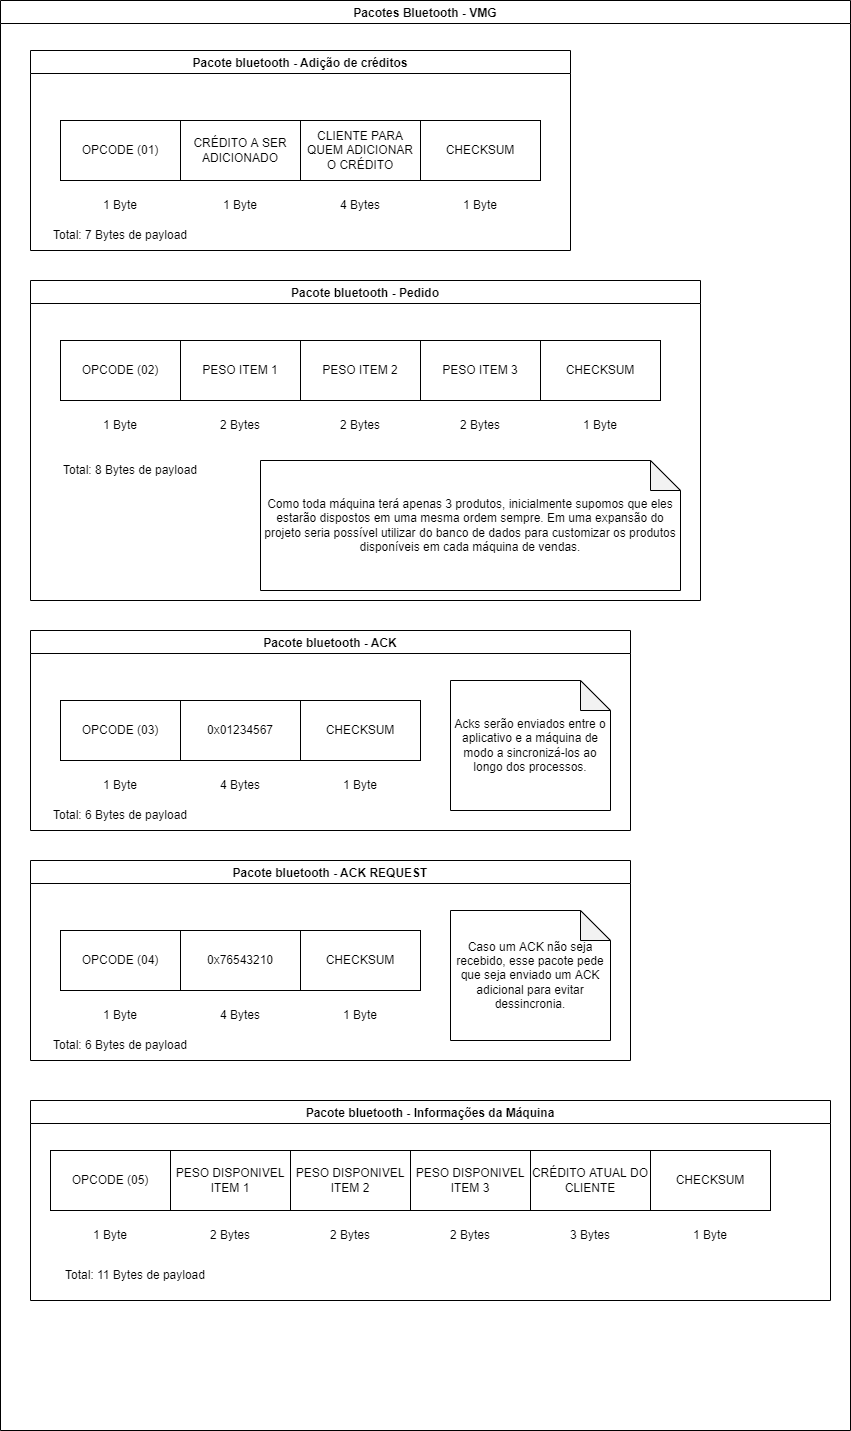
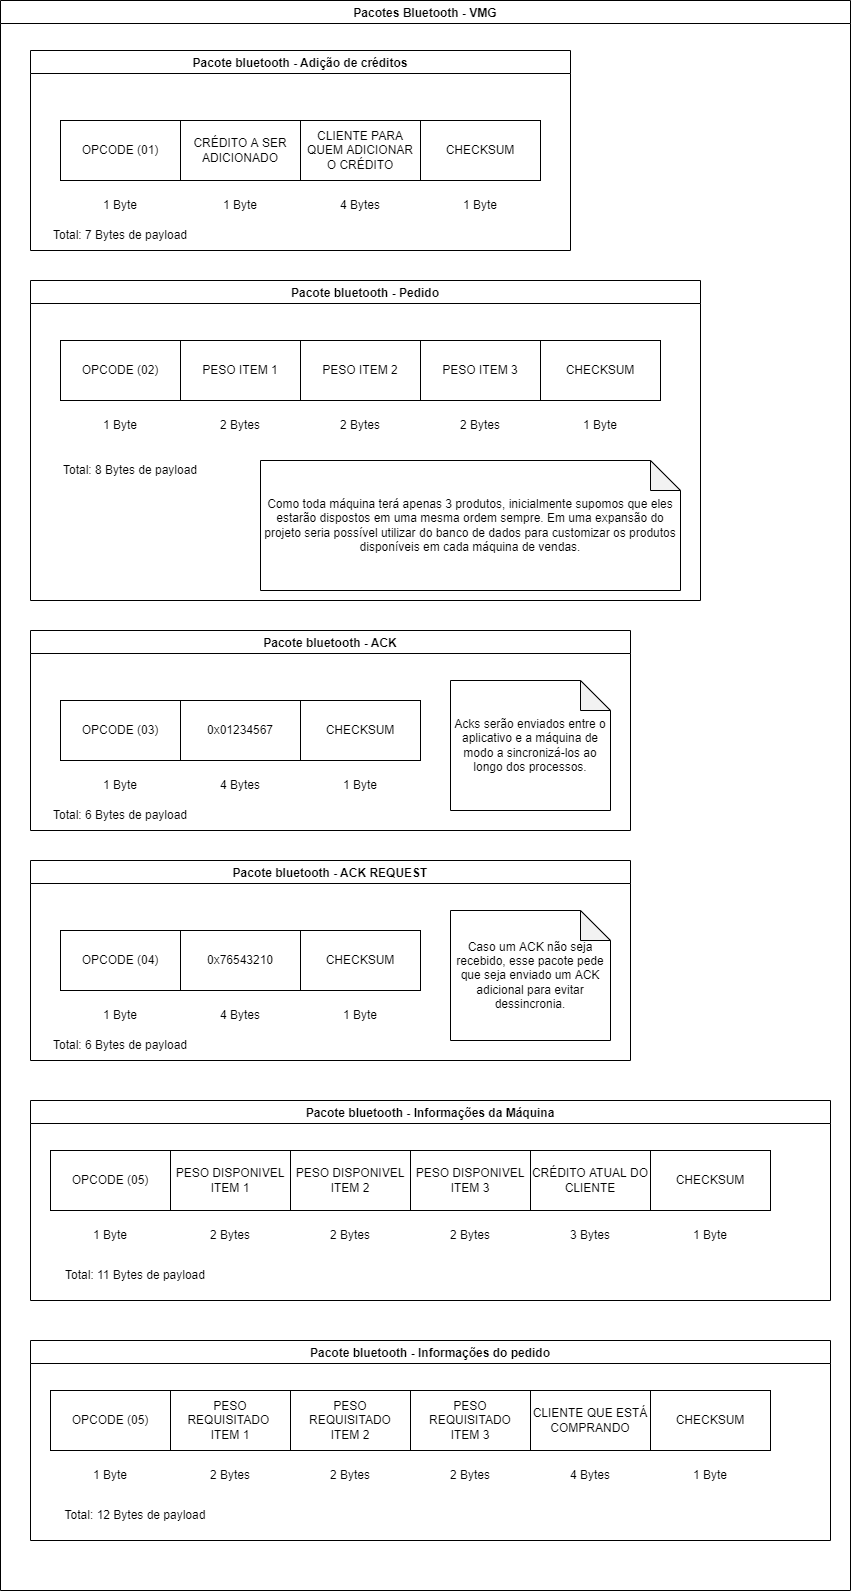
funções de envio de pacotes terminadas

Changed region(s): [[0.0306, 0.0, 0.9166, 0.9532], [0.9471, 0.8302, 0.9777, 0.8609]]

diff --git a/VmgApp/app/src/main/java/com/example/bluetoothexample/BluetoothClient.kt b/VmgApp/app/src/main/java/com/example/bluetoothexample/BluetoothClient.kt
@@ -24,6 +24,7 @@ import java.io.OutputStream
 import java.security.Provider
 import java.util.*
 import java.util.logging.Handler
+import kotlin.math.exp
 
 
 class BluetoothClient(
@@ -39,7 +40,22 @@ class BluetoothClient(
 
     fun sendPedido()
     {
-        bluetoothThread().sendPedido("pedido".toByteArray())
+        bluetoothThread().sendPedido()
+    }
+
+    fun sendAck()
+    {
+        bluetoothThread().sendAck()
+    }
+
+    fun sendAckRequest()
+    {
+        bluetoothThread().sendAckRequest()
+    }
+
+    fun sendPacoteCredito(dinheiros: Int)
+    {
+        bluetoothThread().sendPacoteCredito(dinheiros)
     }
 
     fun start()
@@ -128,10 +144,109 @@ class BluetoothClient(
             sleep(5000)
             write("ping".toByteArray())
         }
-
-        fun sendPedido(bytes : ByteArray)
+        private fun criaPacoteCredito(dinheiros : Int) : ByteArray
         {
-            write(bytes)
+            var pacote = ByteArray(7)
+
+            pacote[0] = 0x01;
+            pacote[1] = dinheiros.toByte();
+            /* Implementar usuários */
+            pacote[2] = 0x00;
+            pacote[3] = 0x00;
+            pacote[4] = 0x00;
+            pacote[5] = 0x00;
+
+            var checksum = 0;
+
+            for(x in pacote)
+            {
+                checksum += x;
+            }
+
+            pacote[6] = (checksum%256).toByte();
+
+            return pacote
+        }
+
+        private fun criaPacotePedido() :ByteArray
+        {
+            var pacote = ByteArray(8)
+            var peso = 0
+            var checksum = 2
+
+            pacote[0] = 0x02
+            var i = 1
+
+            for(x in 0..2) {
+                peso = SelecaoProdutos.listaDeProdutos[x].peso
+                pacote[i++] = (peso / 256).toByte()
+                pacote[i++] = (peso).toByte()
+                checksum += peso
+            }
+
+            pacote[i] = (checksum%256).toByte()
+
+            return pacote
+        }
+
+        private fun criaAck() : ByteArray
+        {
+            var pacote = ByteArray(6)
+            var checksum = 0
+            pacote[0] = 0x03
+
+            pacote[1] = 0x01
+            pacote[2] = 0x23
+            pacote[3] = 0x45
+            pacote[4] = 0x67
+
+            for (x in pacote){
+                checksum += x
+            }
+
+            pacote[5] = checksum.toByte()
+
+            return pacote
+        }
+
+        private fun criaAckRequest() : ByteArray
+        {
+            var pacote = ByteArray(6)
+
+            pacote[0] = 0x04
+            pacote[1] = 0x76
+            pacote[2] = 0x54
+            pacote[3] = 0x32
+            pacote[4] = 0x10
+
+            var checksum = 0
+
+            for(x in pacote)
+            {
+                checksum += x
+            }
+
+            return pacote
+        }
+
+        fun sendPedido()
+        {
+            write(criaPacotePedido())
+        }
+
+        fun sendAck()
+        {
+            write(criaAck())
+        }
+
+        fun sendPacoteCredito(dinheiros: Int)
+        {
+            write(criaPacoteCredito(dinheiros))
+        }
+
+        fun sendAckRequest()
+        {
+            write(criaAckRequest())
         }
 
         fun write(bytes: ByteArray)

diff --git a/VmgApp/app/src/main/java/com/example/bluetoothexample/AdicaoCreditos.kt b/VmgApp/app/src/main/java/com/example/bluetoothexample/AdicaoCreditos.kt
@@ -49,9 +49,10 @@ class AdicaoCreditos : AppCompatActivity() {
     }
 
     private fun adicionarCreditos() {
-        val codigoPromocional = findViewById<EditText>(R.id.inputCreditos).text
+        val codigoPromocional = findViewById<EditText>(R.id.inputCreditos).text.toString()
 
-
+        if(codigoPromocional == "abcde")
+            TelaConexao.bluetoothClient.sendPacoteCredito(100)
 
     }
 
